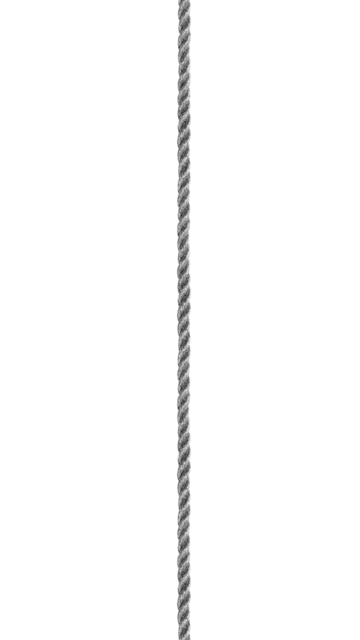
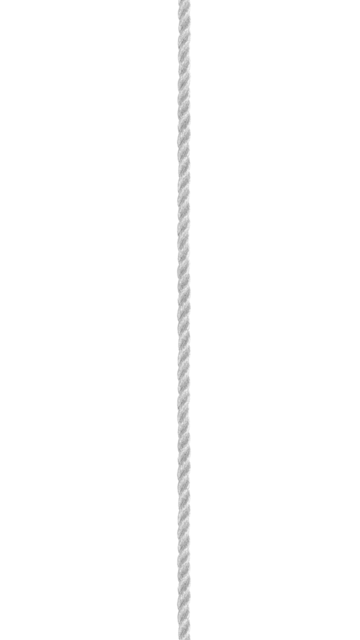
add kamal trick
type: add

Changed region(s): [[0.4889, 0.0, 0.55, 1.0]]

diff --git a/index.html b/index.html
@@ -145,7 +145,7 @@ iid=setInterval(
 )</script></head><body><div class="section"><h1>Wolf's Corner</h1><div id="pizzazz"><img id="fozzy" src="fozzy.jpg" /><img id="rizzo" src="rizzo.jpg" /></div></div><div class="section"><h1>About the Author</h1><p>Father. International nerd of mystery. Diasporish. Karaoke enthusiast.
 Board game haver. Problem eraser. Cyclophile. Collaborative
 contributor. Any opinions stated here represent the opinions of your
-cats.</p></div><div class="section"><h1>Posts</h1><ul><li><a href="no-method-flash.html">Fixing a Bug With Best Practices</a></li><li><a href="id-primitive-obsession.html">ID as a Form of Primitive Obsession</a></li><li><a href="software-analogy.html">The World's Best Best Software Analogy</a></li><li><a href="software-calcifications.html">How Software Calcifies</a></li><li><a href="case_for_rails_engines.html">A Case for Rails Engines</a></li><li><a href="symlink-as-organization.html">Symlinks as an Organizational Tool</a></li></ul></div><div class="section"><h1>Cool Code Collection</h1><table><tr><th>Project</th><th>Details</th><th>Links</th><th style="width: 80">Art</th></tr><tr><td>Rails Engines as First Class Citizens Project</td><td>Rails Engines suck because Rails has so many hard-coded references
+cats.</p></div><div class="section"><h1>Posts</h1><ul><li><a href="simple-kamal-rails-trick.html">Kamal, Rails, and a Ruby version trick</a></li><li><a href="no-method-flash.html">Fixing a Bug With Best Practices</a></li><li><a href="id-primitive-obsession.html">ID as a Form of Primitive Obsession</a></li><li><a href="software-analogy.html">The World's Best Best Software Analogy</a></li><li><a href="software-calcifications.html">How Software Calcifies</a></li><li><a href="case_for_rails_engines.html">A Case for Rails Engines</a></li><li><a href="symlink-as-organization.html">Symlinks as an Organizational Tool</a></li></ul></div><div class="section"><h1>Cool Code Collection</h1><table><tr><th>Project</th><th>Details</th><th>Links</th><th style="width: 80">Art</th></tr><tr><td>Rails Engines as First Class Citizens Project</td><td>Rails Engines suck because Rails has so many hard-coded references
 to ActiveRecord::Base. With work we could remove the hard-coded
 references and allow Rails Engines to become fully isolated from
 everything else. This would mean they could own their configs, own

diff --git a/simple-kamal-rails-trick.html b/simple-kamal-rails-trick.html
@@ -1,0 +1,47 @@
+<head><link href="style/post.css" rel="stylesheet" /><script src="script/post.js"></script></head><body onload="checkfun()"><aside><h4><a href="index.html">Main Page</a></h4><h4>Options</h4><table><tr><td><label for="fun">Tilt</label></td><td><input checked="true" id="fun" onclick="checkfun()" pattern="true" type="checkbox" /></td></tr></table></aside><main><h1 id="kamal-rails-and-ruby-version">Kamal, Rails, and Ruby version</h1>
+
+<p>Today I have an undocumented trick for those building images with Kamal for
+those of you who are, like me, bothered that the ruby version is duplicated in
+the Dockerfile and .ruby-version.</p>
+
+<h2 id="dockerfile">Dockerfile</h2>
+
+<p>The default Dockerfile contains the directive:</p>
+
+<pre><code>ARG RUBY_VERSION=4.0.1
+FROM docker.io/library/ruby:$RUBY_VERSION-slim AS base
+</code></pre>
+
+<p>This allows injection of the Ruby version by setting a docker build-arg option.
+If you were to run <code>docker build</code> and set <code>--build-arg RUBY_VERSION</code> without a
+value, docker will get the value from the environment.</p>
+
+<h2 id="ruby">Ruby</h2>
+
+<p>When you run Ruby, it sets RUBY_VERSION in it’s environment. Any commands run
+from within Ruby will get this enviroment variable. Kamal is a Ruby executable,
+so it will have the correct RUBY_VERSION for your application.</p>
+
+<h2 id="deployyml">deploy.yml</h2>
+
+<p>Kamal allow you to set build args in deploy.yml. It even already has a
+commented out <code>RUBY_VERSION: 4.0.1</code>.</p>
+
+<h2 id="connecting-the-dots">Connecting the dots</h2>
+
+<p>Just uncommenting the line is not enough. Kamal expects the build args to be a
+hash, which conflicts with trying to get Kamal to run with <code>--build-arg
+RUBY_VERSION</code> at first glance. The trick here is a (seemingly) undocumented
+feature of Kamal::Utils.argumentize. Any value that gives false to
+<code>VALUE.present?</code> will result in <code>--OPTION KEY</code>, while “present” values result
+in <code>--OPTION KEY=VALUE</code>.</p>
+
+<p>This means that any of the following will result in passing of RUBY_VERSION
+from the Kamal process to the docker build and save you a duplicated config:</p>
+
+<pre><code>RUBY_VERSION: ""
+RUBY_VERSION: null
+RUBY_VERSION: []
+RUBY_VERSION: {}
+</code></pre>
+</main></body>

diff --git a/software-analogy.html b/software-analogy.html
@@ -1,4 +1,4 @@
-<head><link href="style/post.css" rel="stylesheet" /><script src="script/post.js"></script></head><body onload="checkfun()"><aside><h4>Options</h4><table><tr><td><label for="fun">Tilt</label></td><td><input checked="true" id="fun" onclick="checkfun()" pattern="true" type="checkbox" /></td></tr></table></aside><main><h1 id="the-worlds-most-accurate-software-analogy">The world’s most accurate software analogy</h1>
+<head><link href="style/post.css" rel="stylesheet" /><script src="script/post.js"></script></head><body onload="checkfun()"><aside><h4><a href="index.html">Main Page</a></h4><h4>Options</h4><table><tr><td><label for="fun">Tilt</label></td><td><input checked="true" id="fun" onclick="checkfun()" pattern="true" type="checkbox" /></td></tr></table></aside><main><h1 id="the-worlds-most-accurate-software-analogy">The world’s most accurate software analogy</h1>
 
 <p>People need analogies to help understand how software development happens but
 all analogies are at some level inaccurate. For example, people talk about

diff --git a/id-primitive-obsession.html b/id-primitive-obsession.html
@@ -1,4 +1,4 @@
-<head><link href="style/post.css" rel="stylesheet" /><script src="script/post.js"></script></head><body onload="checkfun()"><aside><h4>Options</h4><table><tr><td><label for="fun">Tilt</label></td><td><input checked="true" id="fun" onclick="checkfun()" pattern="true" type="checkbox" /></td></tr></table></aside><main><h1 id="id-as-a-form-of-primitive-obsession">ID as a form of primitive obsession</h1>
+<head><link href="style/post.css" rel="stylesheet" /><script src="script/post.js"></script></head><body onload="checkfun()"><aside><h4><a href="index.html">Main Page</a></h4><h4>Options</h4><table><tr><td><label for="fun">Tilt</label></td><td><input checked="true" id="fun" onclick="checkfun()" pattern="true" type="checkbox" /></td></tr></table></aside><main><h1 id="id-as-a-form-of-primitive-obsession">ID as a form of primitive obsession</h1>
 
 <p>Primitive obsession: the act of utilizing language primitives like strings,
 integers, arrays, and such to represent complex domain objects. A common

diff --git a/ai-vs-dotcom.html b/ai-vs-dotcom.html
@@ -1,4 +1,4 @@
-<head><link href="style/post.css" rel="stylesheet" /><script src="script/post.js"></script></head><body onload="checkfun()"><aside><h4>Options</h4><table><tr><td><label for="fun">Tilt</label></td><td><input checked="true" id="fun" onclick="checkfun()" pattern="true" type="checkbox" /></td></tr></table></aside><main><h1 id="llm-vs-dotcom-bubbles">LLM vs Dotcom Bubbles</h1>
+<head><link href="style/post.css" rel="stylesheet" /><script src="script/post.js"></script></head><body onload="checkfun()"><aside><h4><a href="index.html">Main Page</a></h4><h4>Options</h4><table><tr><td><label for="fun">Tilt</label></td><td><input checked="true" id="fun" onclick="checkfun()" pattern="true" type="checkbox" /></td></tr></table></aside><main><h1 id="llm-vs-dotcom-bubbles">LLM vs Dotcom Bubbles</h1>
 
 <p>It seems like most people agree that LLMs are in a bubble. The amount
 of money that LLMs would need to generate to make good on their

diff --git a/wash-your-hands.html b/wash-your-hands.html
@@ -1,4 +1,4 @@
-<head><link href="style/post.css" rel="stylesheet" /><script src="script/post.js"></script></head><body onload="checkfun()"><aside><h4>Options</h4><table><tr><td><label for="fun">Tilt</label></td><td><input checked="true" id="fun" onclick="checkfun()" pattern="true" type="checkbox" /></td></tr></table></aside><main><h1 id="wash-your-hands">Wash Your Hands</h1>
+<head><link href="style/post.css" rel="stylesheet" /><script src="script/post.js"></script></head><body onload="checkfun()"><aside><h4><a href="index.html">Main Page</a></h4><h4>Options</h4><table><tr><td><label for="fun">Tilt</label></td><td><input checked="true" id="fun" onclick="checkfun()" pattern="true" type="checkbox" /></td></tr></table></aside><main><h1 id="wash-your-hands">Wash Your Hands</h1>
 
 <p>I have been in software for 15 years and given the current insanity, who knows
 how much longer it will be before we are all forced into the phone factories.

diff --git a/no-method-flash.html b/no-method-flash.html
@@ -1,4 +1,4 @@
-<head><link href="style/post.css" rel="stylesheet" /><script src="script/post.js"></script></head><body onload="checkfun()"><aside><h4>Options</h4><table><tr><td><label for="fun">Tilt</label></td><td><input checked="true" id="fun" onclick="checkfun()" pattern="true" type="checkbox" /></td></tr></table></aside><main><h1 id="fixing-a-bug-in-rails-via-best-practices">Fixing a Bug in Rails Via Best Practices</h1>
+<head><link href="style/post.css" rel="stylesheet" /><script src="script/post.js"></script></head><body onload="checkfun()"><aside><h4><a href="index.html">Main Page</a></h4><h4>Options</h4><table><tr><td><label for="fun">Tilt</label></td><td><input checked="true" id="fun" onclick="checkfun()" pattern="true" type="checkbox" /></td></tr></table></aside><main><h1 id="fixing-a-bug-in-rails-via-best-practices">Fixing a Bug in Rails Via Best Practices</h1>
 
 <h2 id="an-error">An Error</h2>
 

diff --git a/just-in-time-grooming.html b/just-in-time-grooming.html
@@ -1,4 +1,4 @@
-<head><link href="style/post.css" rel="stylesheet" /><script src="script/post.js"></script></head><body onload="checkfun()"><aside><h4>Options</h4><table><tr><td><label for="fun">Tilt</label></td><td><input checked="true" id="fun" onclick="checkfun()" pattern="true" type="checkbox" /></td></tr></table></aside><main><h1 id="just-in-time-grooming">Just-In-Time Grooming</h1>
+<head><link href="style/post.css" rel="stylesheet" /><script src="script/post.js"></script></head><body onload="checkfun()"><aside><h4><a href="index.html">Main Page</a></h4><h4>Options</h4><table><tr><td><label for="fun">Tilt</label></td><td><input checked="true" id="fun" onclick="checkfun()" pattern="true" type="checkbox" /></td></tr></table></aside><main><h1 id="just-in-time-grooming">Just-In-Time Grooming</h1>
 
 <h2 id="a-failed-grooming-meeting">A failed grooming meeting</h2>
 

diff --git a/style/post.css b/style/post.css
@@ -29,11 +29,13 @@ pre {
   font-size: 75%;
 }
 
-body {
-  background-image: url("../rope.png");
-  background-position: center center;
-  background-repeat: repeat-y;
-  background-attachment: scroll;
+@media (prefers-color-scheme: light) {
+  body {
+    background-image: url("../rope.png");
+    background-position: center center;
+    background-repeat: repeat-y;
+    background-attachment: scroll;
+  }
 }
 
 aside {

diff --git a/src/simple-kamal-rails-trick.md b/src/simple-kamal-rails-trick.md
@@ -1,0 +1,48 @@
+# Kamal, Rails, and Ruby version
+
+Today I have an undocumented trick for those building images with Kamal for
+those of you who are, like me, bothered that the ruby version is duplicated in
+the Dockerfile and .ruby-version.
+
+## Dockerfile
+
+The default Dockerfile contains the directive:
+
+```
+ARG RUBY_VERSION=4.0.1
+FROM docker.io/library/ruby:$RUBY_VERSION-slim AS base
+```
+
+This allows injection of the Ruby version by setting a docker build-arg option.
+If you were to run `docker build` and set `--build-arg RUBY_VERSION` without a
+value, docker will get the value from the environment.
+
+## Ruby
+
+When you run Ruby, it sets RUBY_VERSION in it's environment. Any commands run
+from within Ruby will get this enviroment variable. Kamal is a Ruby executable,
+so it will have the correct RUBY_VERSION for your application.
+
+## deploy.yml
+
+Kamal allow you to set build args in deploy.yml. It even already has a
+commented out `RUBY_VERSION: 4.0.1`.
+
+## Connecting the dots
+
+Just uncommenting the line is not enough. Kamal expects the build args to be a
+hash, which conflicts with trying to get Kamal to run with `--build-arg
+RUBY_VERSION` at first glance. The trick here is a (seemingly) undocumented
+feature of Kamal::Utils.argumentize. Any value that gives false to
+`VALUE.present?` will result in `--OPTION KEY`, while "present" values result
+in `--OPTION KEY=VALUE`.
+
+This means that any of the following will result in passing of RUBY_VERSION
+from the Kamal process to the docker build and save you a duplicated config:
+
+```
+RUBY_VERSION: ""
+RUBY_VERSION: null
+RUBY_VERSION: []
+RUBY_VERSION: {}
+```
